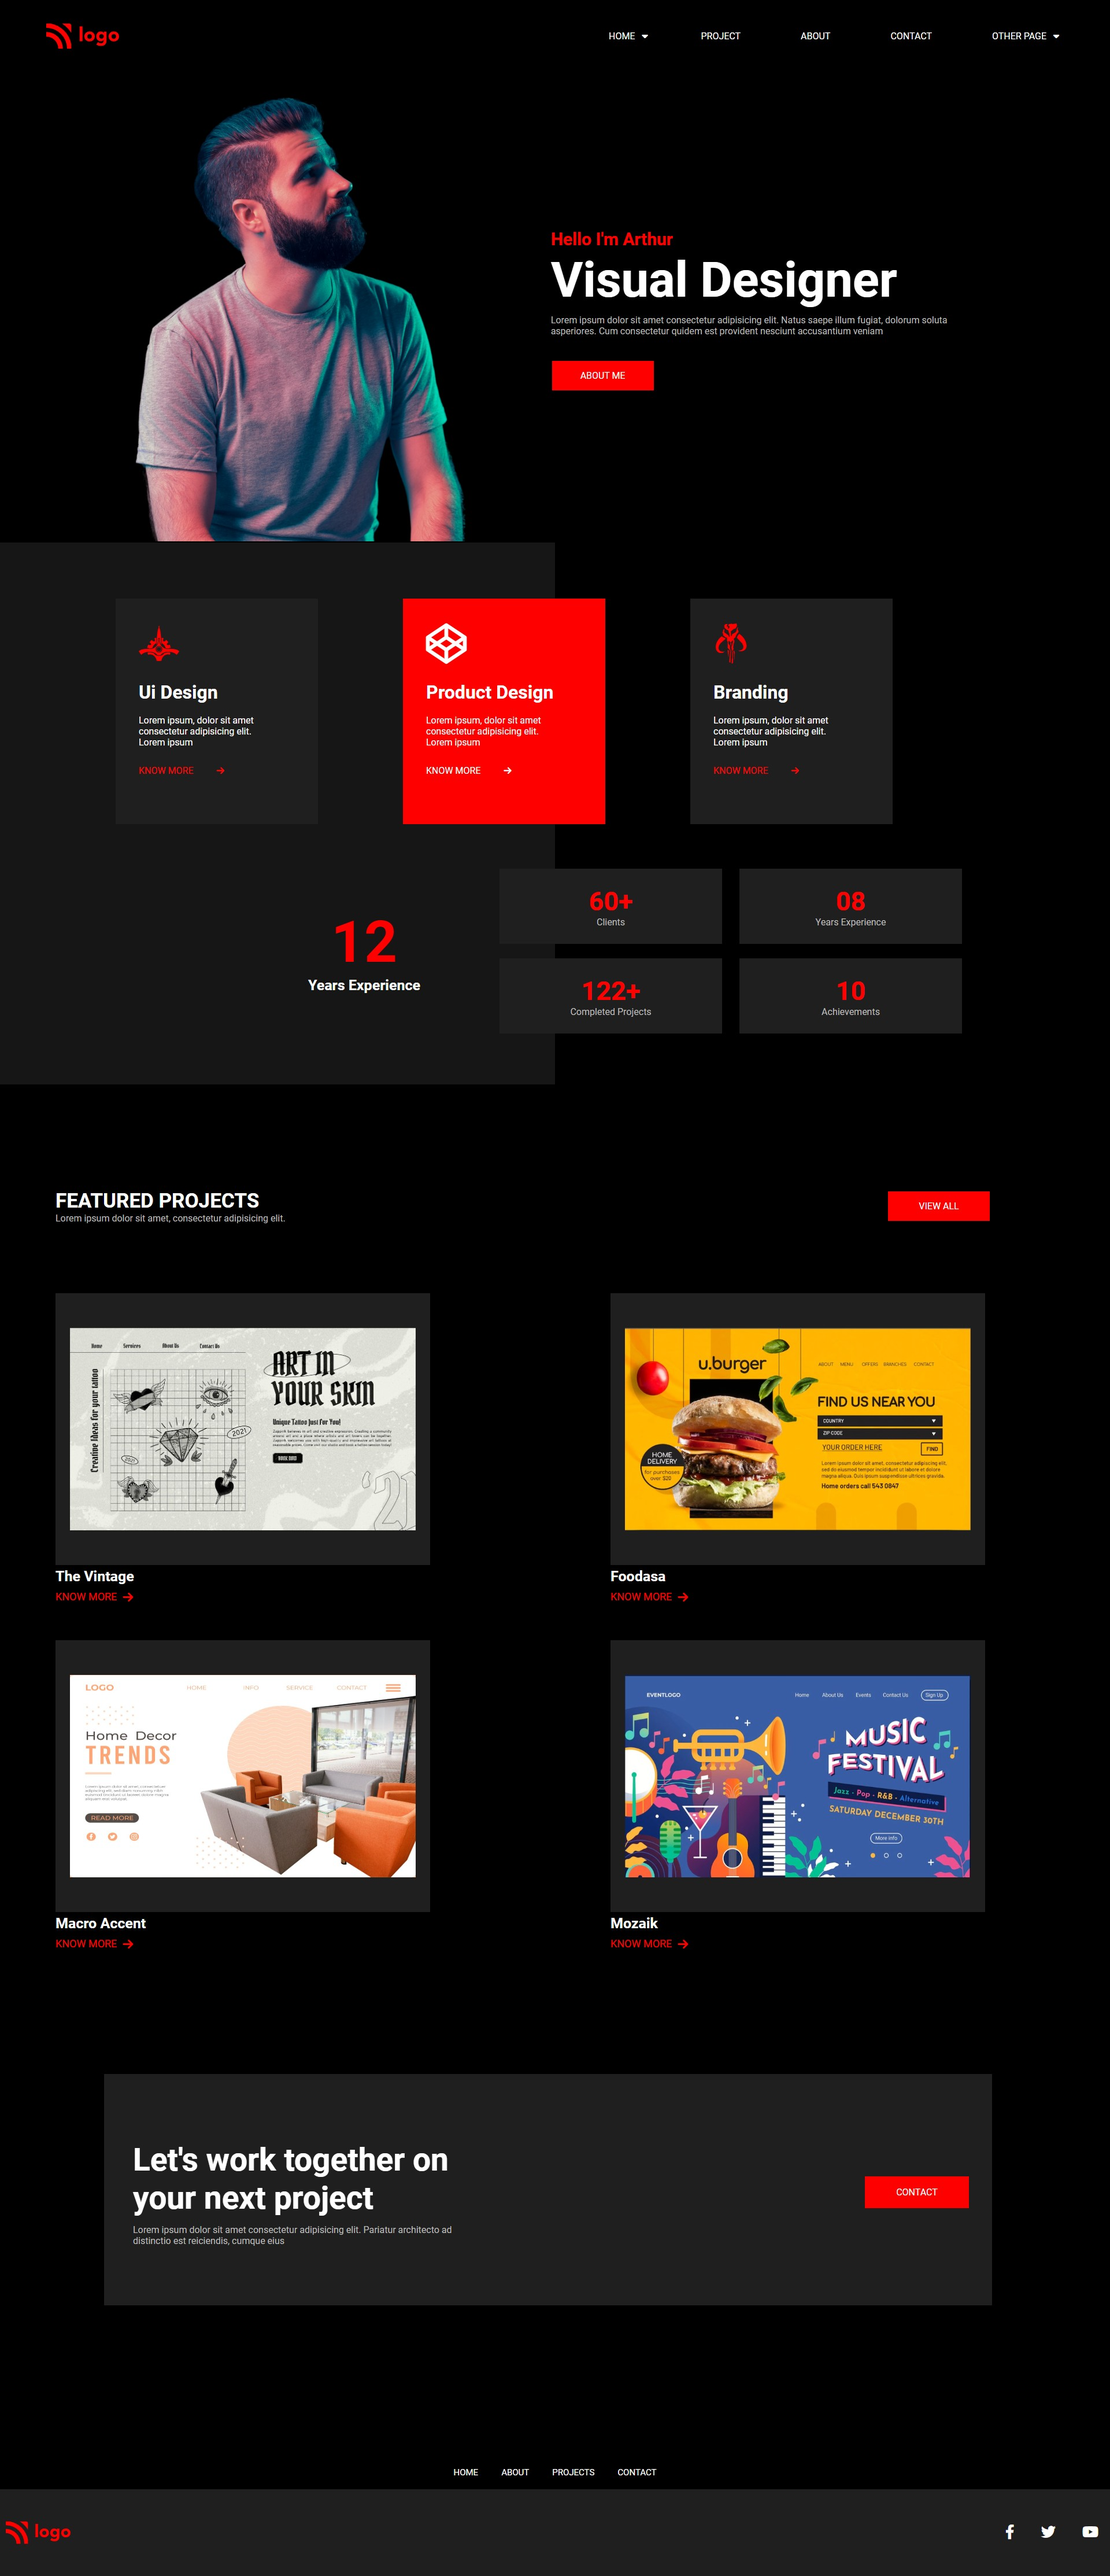
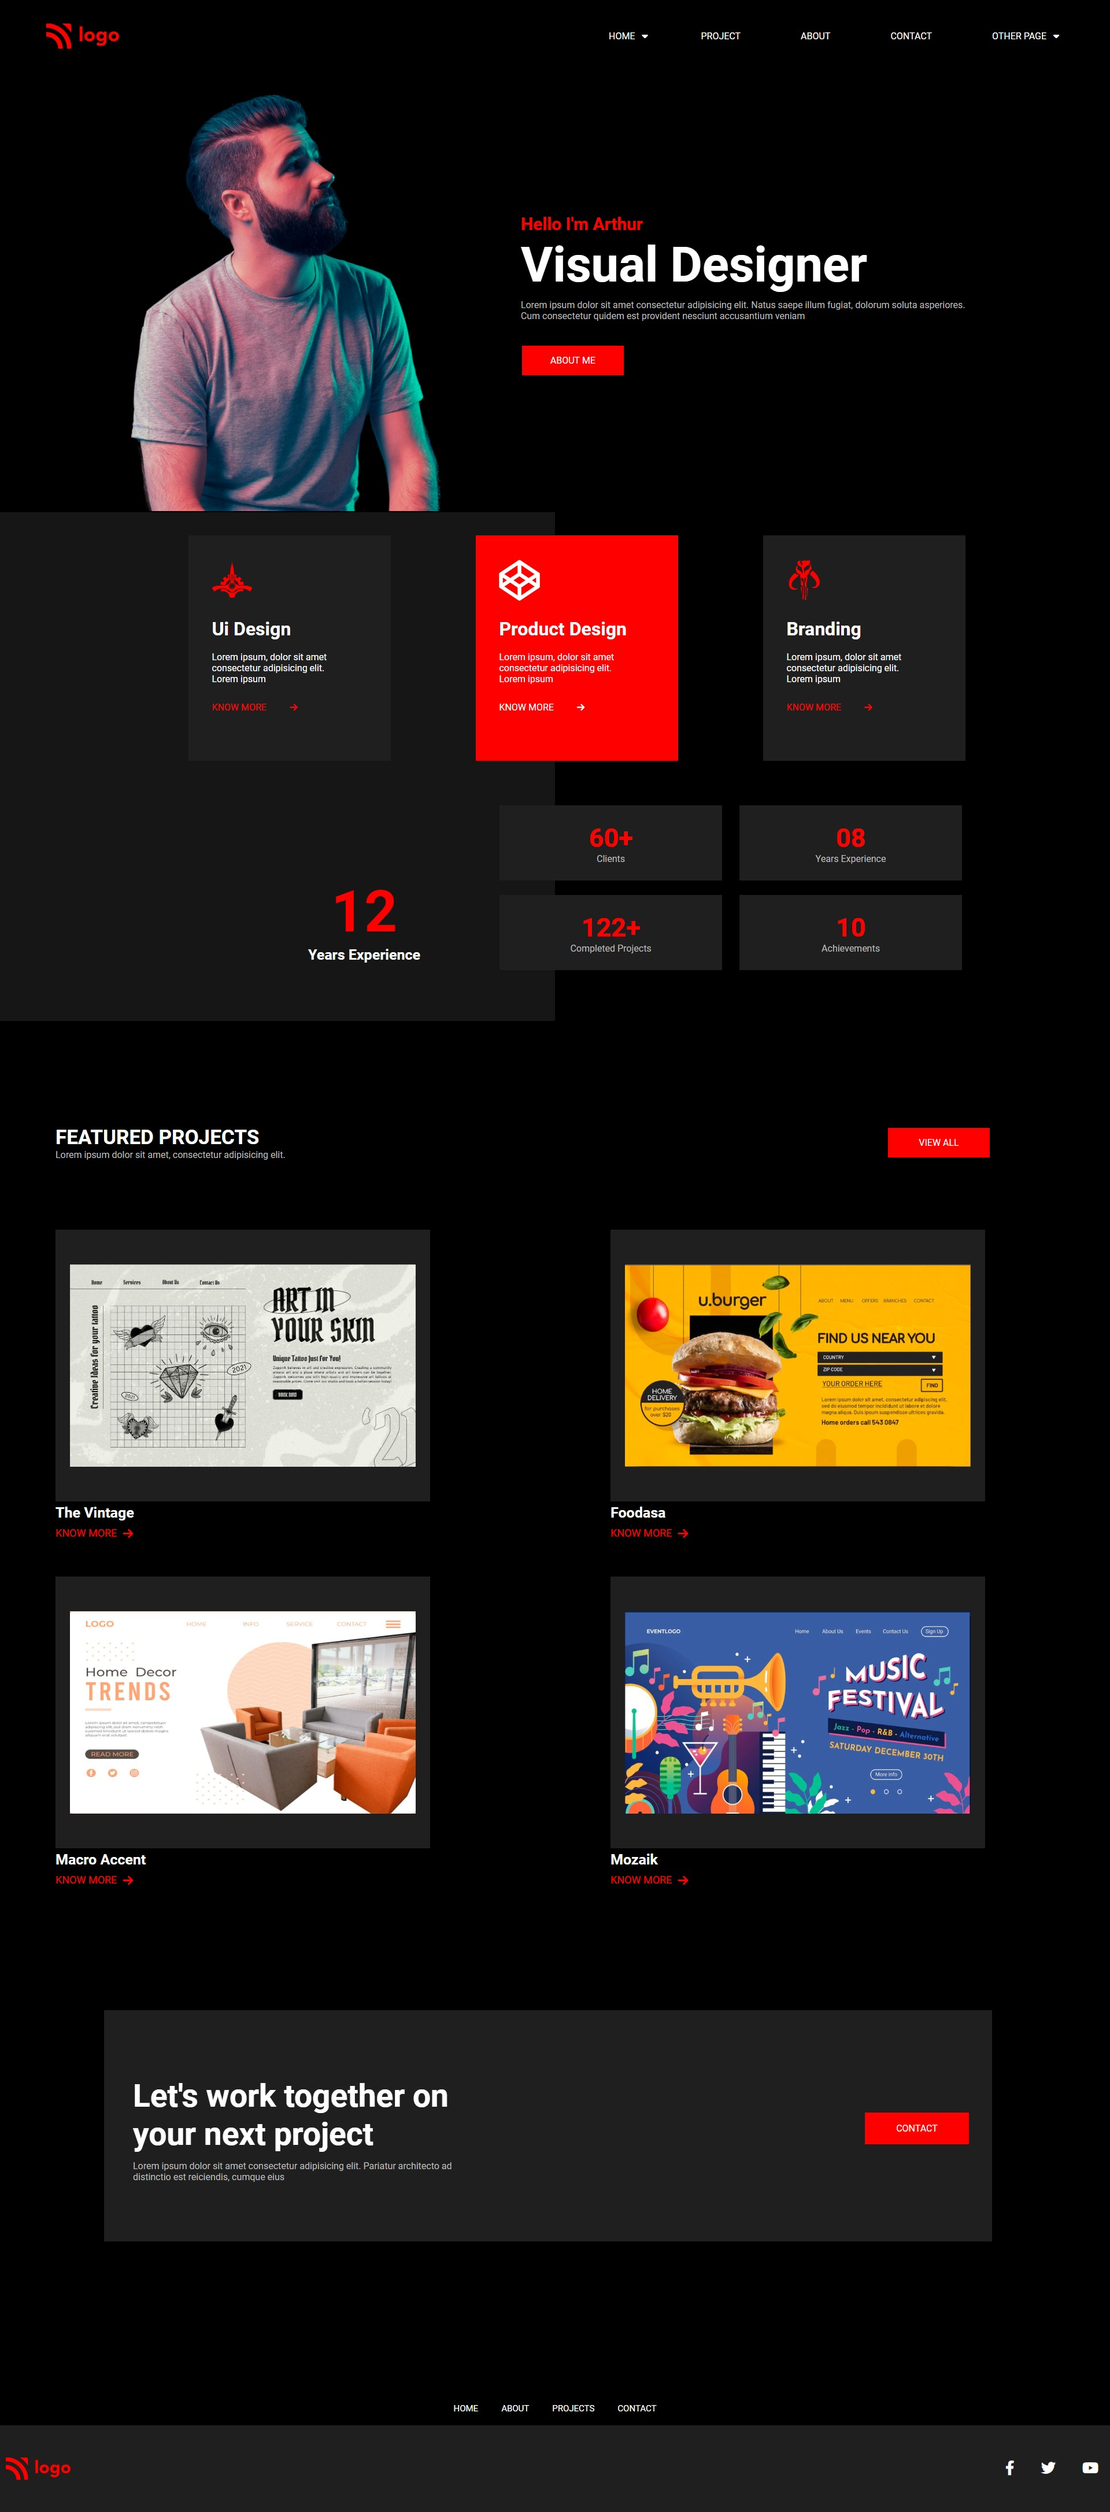
responsive update

diff --git a/CSS/style.css b/CSS/style.css
@@ -114,7 +114,7 @@ nav img{
     justify-content: space-between;
     align-items: center;
     gap: 10px;
-    left: 200px;
+    left: 17%;
     height: 450px;
     width: 70%;
 }
